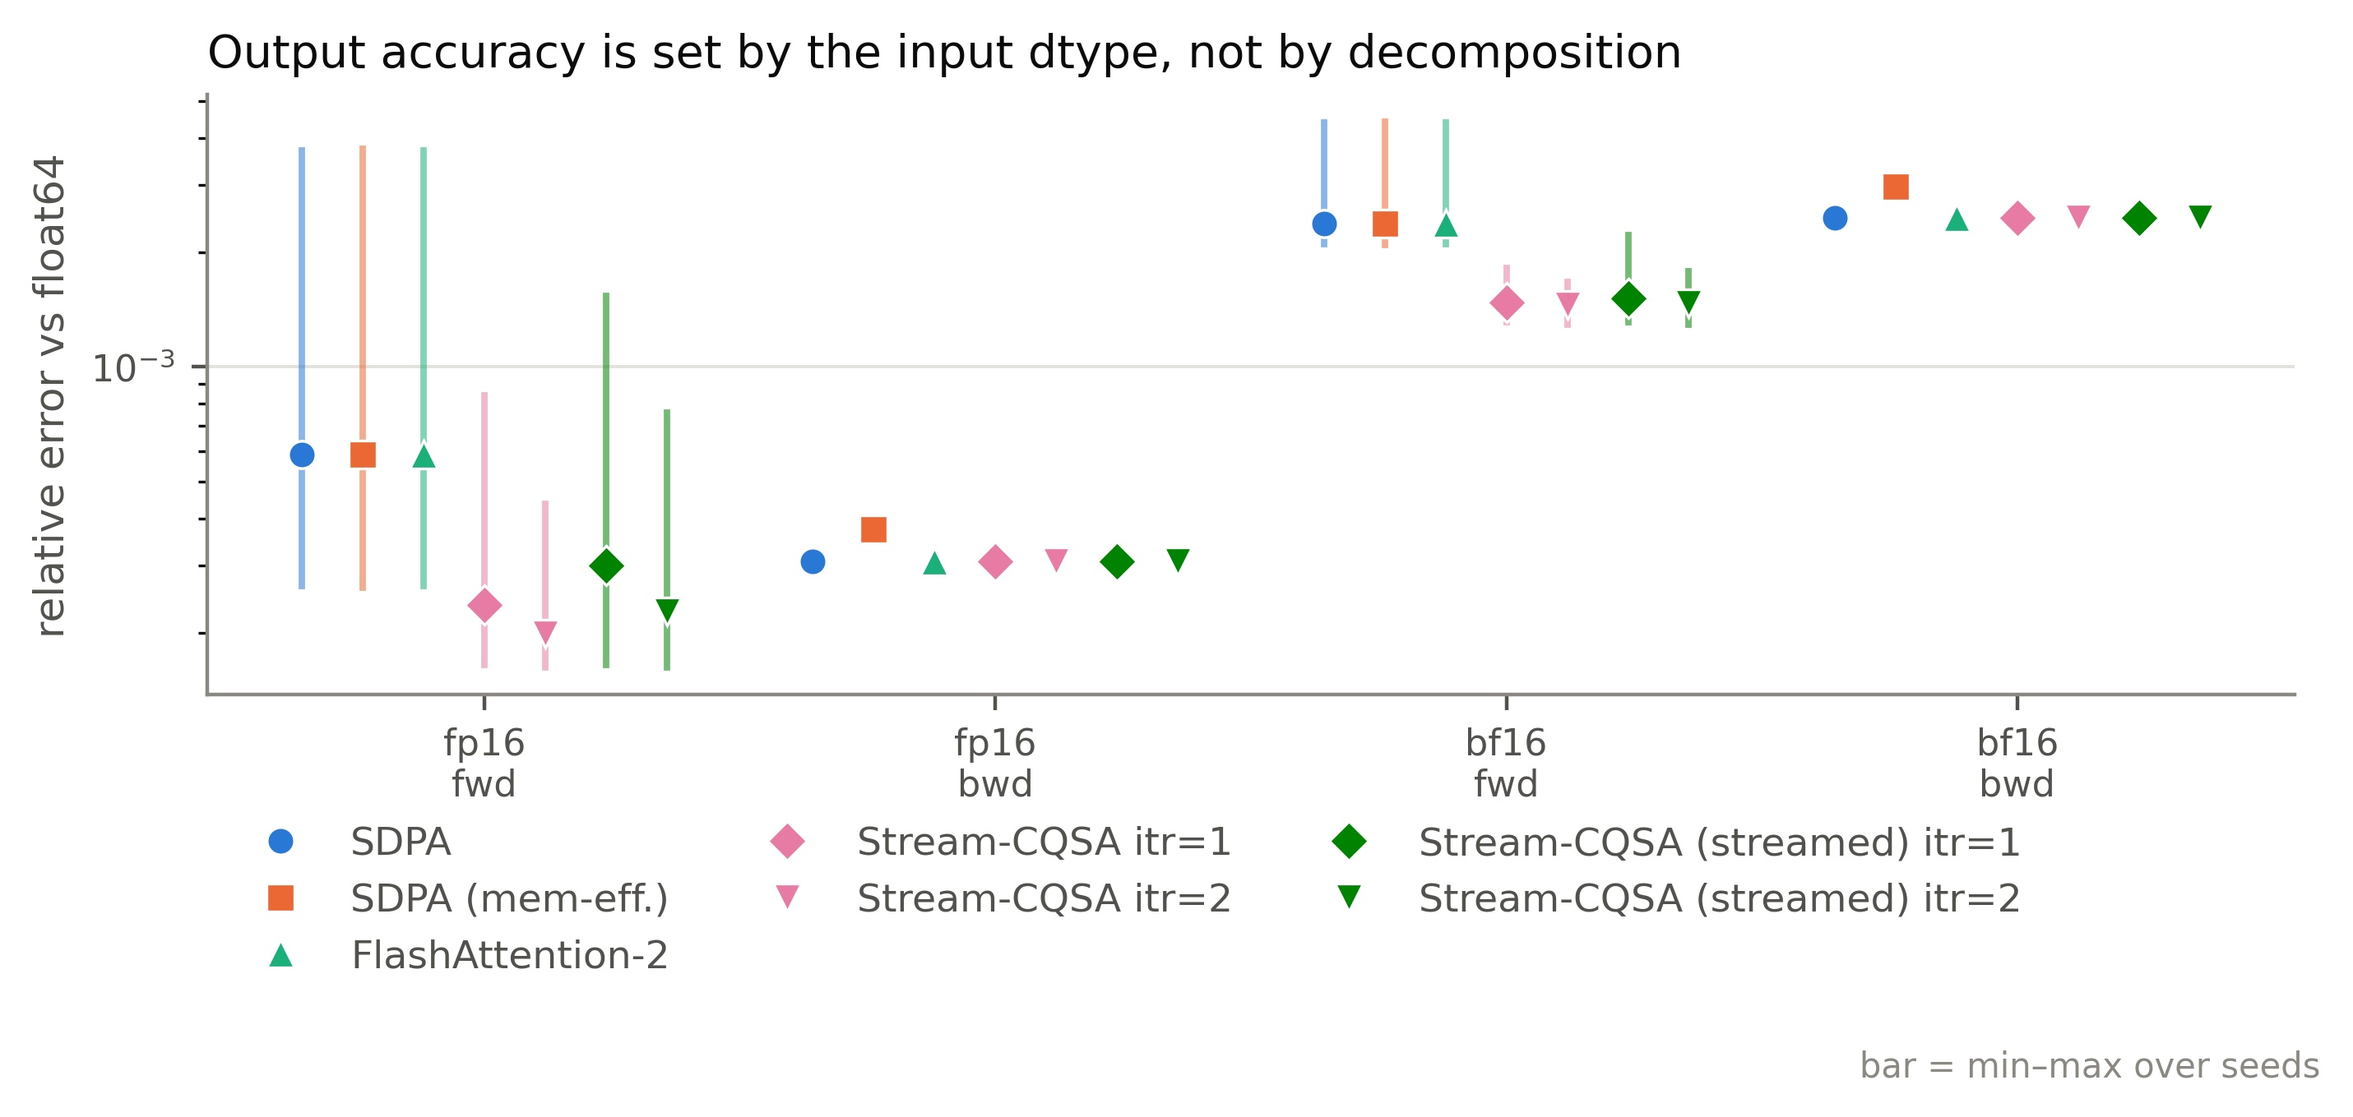
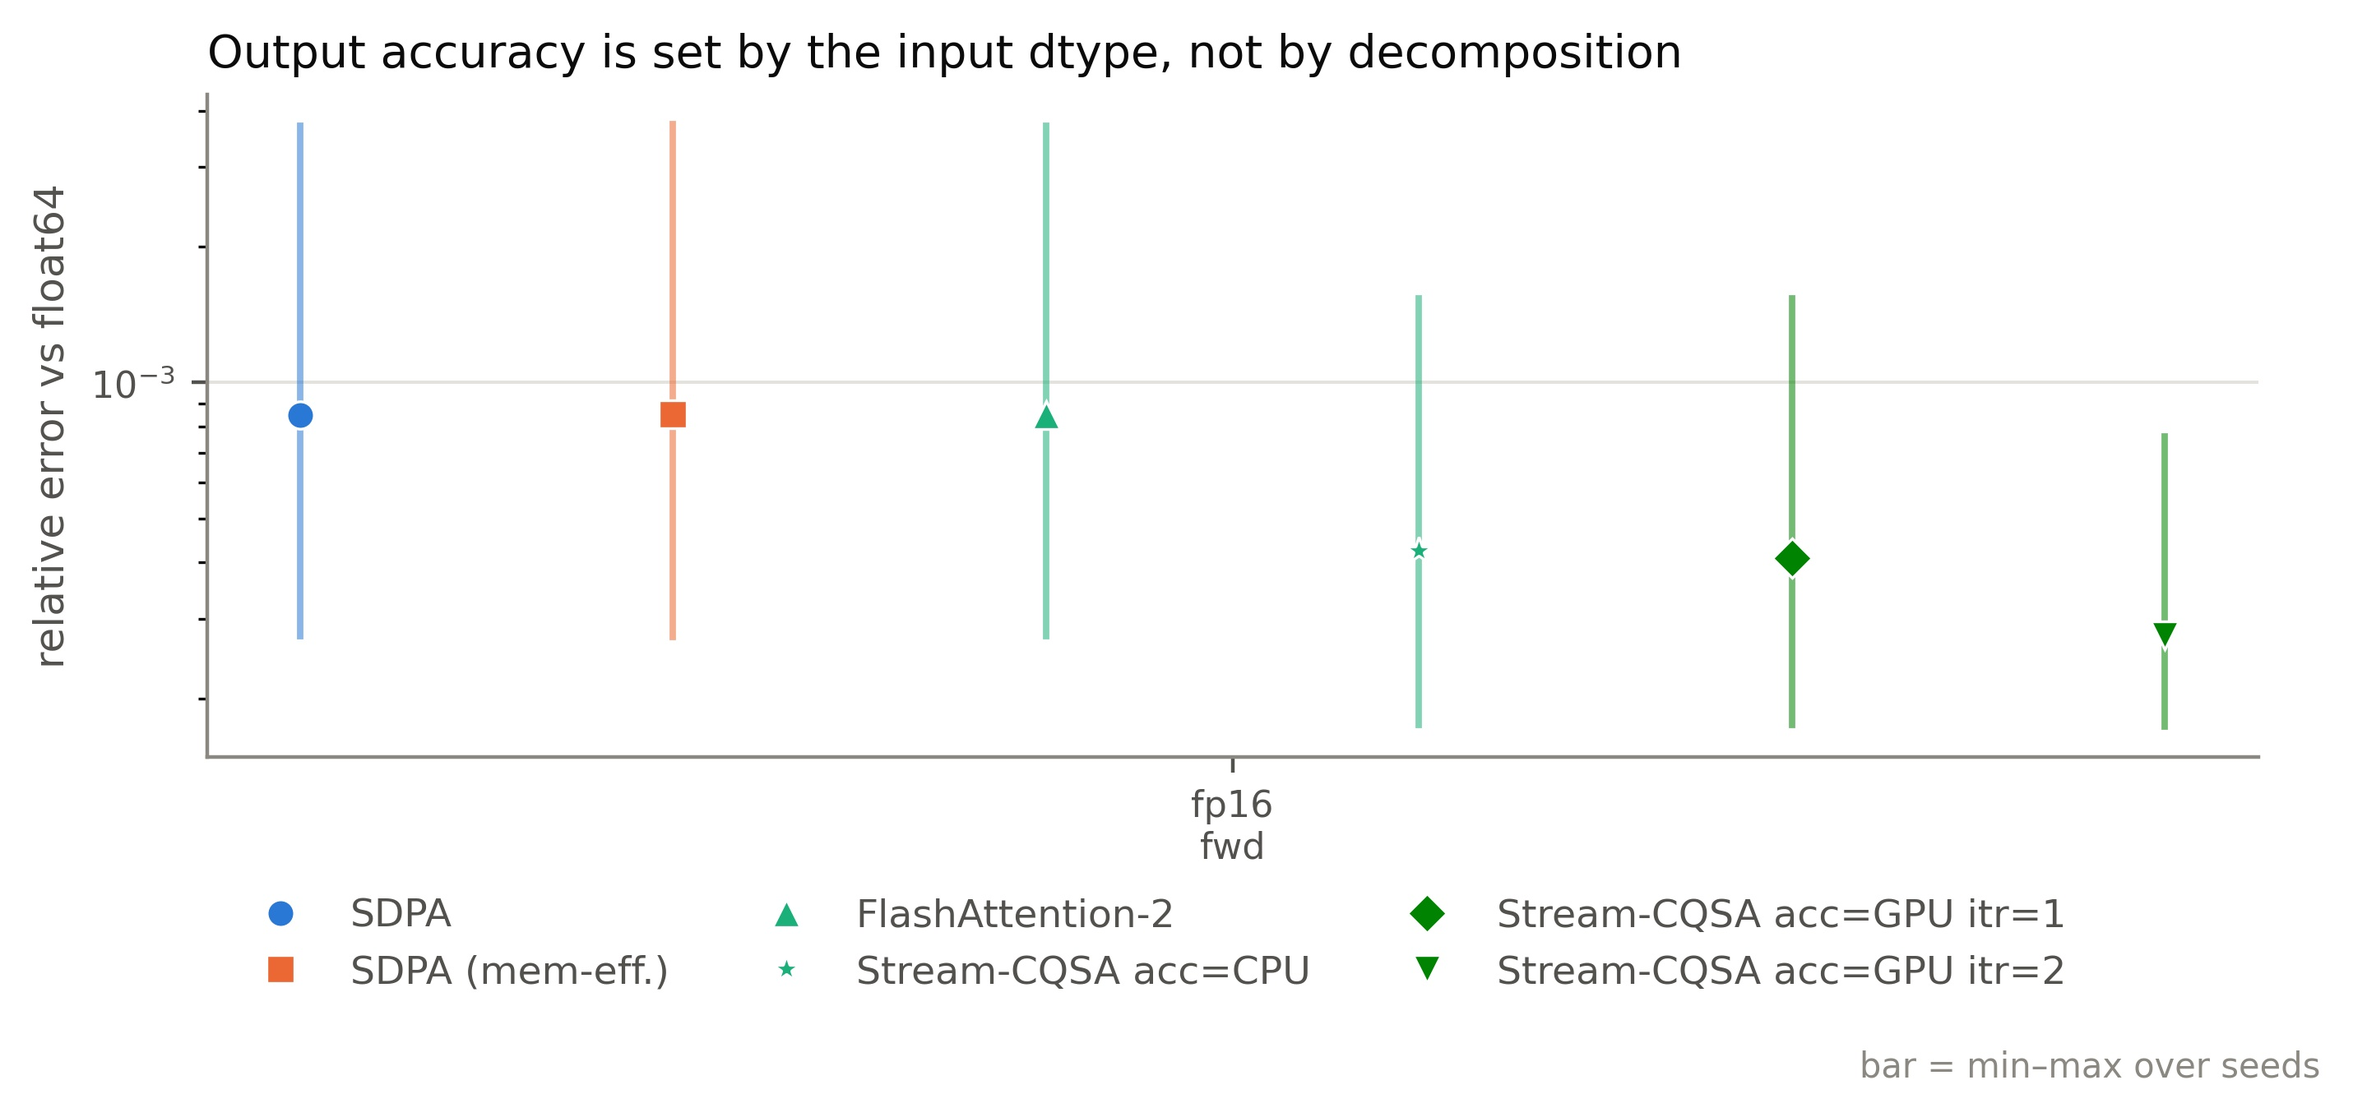
Results: the measured backward, forward first, figure regenerated
The backward acc=GPU columns are filled for the first time with a real device
accumulator, and the picture they give is the argument the method exists to make.
At 8M every baseline is out of memory and so is Stream-CQSA at both fixed depths
with dQ/dK/dV on the device; only the host-accumulating configuration finishes,
in 60.8 GiB, and it goes on to complete 16M in 48.5 GiB. Before this the acc=GPU
and acc=CPU backward columns were the same measurement printed twice, because the
streamed backward had no way to place its accumulators, so the wall was invisible.

Forward now precedes backward, which is the order the passes run in and the order
a reader expects.

Two claims are removed as false. The backward's O(N) buffers are no longer said to
be placed by stream_from_host with nothing to choose -- they have their own
parameter, and the trade is 1.79x device memory against 8% time, flat across N.
And the 16M backward win is no longer attributed to depth alone: acc=GPU cannot
reach 16M at any depth, because three fp32 [B,N,H,D] buffers are 12 bytes per
element of O(N) residency that decomposition does not touch, measured at 12.01
against a predicted 12.00.

The cost ratios are recomputed. The backward acc=GPU rows moved from 0.76x and
0.44x of FlashAttention-2 to 1.35x and 1.04x, the earlier figures having been
host-accumulated under a GPU label.

The figure is regenerated from a merged file holding exactly the rows the tables
[…]

diff --git a/stream_cqsa/stable_stream.py b/stream_cqsa/stable_stream.py
@@ -2050,7 +2050,13 @@ def stream_cqsa_backward(
                 if torch.cuda.is_available():
                     torch.cuda.synchronize(device)
                     torch.cuda.empty_cache()
-                if not allow_escalation or depth >= depth_cap:
+                if not allow_escalation:
+                    raise torch.cuda.OutOfMemoryError(
+                        f"Stream-CQSA streamed backward: itr={depth} does not fit "
+                        f"and escalation is disabled (allow_escalation=False), so "
+                        f"this depth genuinely does not fit."
+                    ) from exc
+                if depth >= depth_cap:
                     raise torch.cuda.OutOfMemoryError(
                         f"Stream-CQSA streamed backward: itr={depth_cap} is the "
                         f"deepest decomposition N={N} admits at c={c}, and the "

diff --git a/README.md b/README.md
@@ -56,18 +56,16 @@ fp32 accumulator off the device, which is why it is the last column standing at
 16M — finishing there in 32.0 GiB forward and 48.5 GiB backward while every
 baseline is out of memory.
 
-**One thing to be precise about, because the column name overstates it.**
-`accumulate_on_gpu` places the *forward's* fp32 softmax accumulator. The backward
-has no such accumulator, and its own O(N) buffers — `dQ`, `dK`, `dV` — are placed
-by `stream_from_host`, which every Stream-CQSA column here already sets. So
-"acc=CPU" describes what the forward did; in the backward this column and
-`itr=1` acc=GPU run the same code, and their backward figures agree to within
-run-to-run noise (7.6 against 7.6 at 1M, 60.8 against 61.1 at 8M).
+**What "acc" means in each direction.** In the forward it places the fp32 softmax
+accumulator; in the backward it places `dQ`, `dK` and `dV`. Different tensors, the
+same idea — an O(N) fp32 term that lives on the device or on the host — and the
+same trade in both directions: on the device it is faster and larger, on the host
+slower and smaller.
 
-The forward is where the accumulator placement pays: **20.7 GiB at 8M against
-FlashAttention-2's 40.3**, roughly half, and less than the `itr=2` acc=GPU column
-needs at the same `N`. In the backward the only lever is depth, which is why the
-16M backward win belongs to `itr=3` rather than to residency.
+The forward pays **2.50×** less device memory for the host placement, the backward
+**1.79×**, both flat across `N`. The backward's term is the larger one in absolute
+size, three buffers rather than one, which is why it is the direction where the
+placement decides whether 8M runs at all.
 
 One caveat on how that column is measured, because `auto` means two different
 things. In the package, `auto` starts at `itr=0` and the planner is free to
@@ -86,149 +84,107 @@ in-flight working set than the depth the planner might otherwise reach.
 In normal use you never pick a depth yourself — see
 [On choosing the depth](#on-choosing-the-depth).
 
-### Backward
-
-| N | SDPA | SDPA<br>mem-eff | FA-2 | CQSA itr1<br>acc=GPU | CQSA itr2<br>acc=GPU | CQSA auto<br>acc=CPU § |
-|:---:|:---:|:---:|:---:|:---:|:---:|:---:|
-| **1M** | 26<br>12.1 | 78<br>11.1 | 25<br>10.1 | *pending* | *pending* | 65<br>7.6 * |
-| **2M** | 106<br>24.1 | 3860<br>22.1 | 101<br>20.1 | *pending* | *pending* | 233<br>15.2 * |
-| **4M** | 429<br>48.3 | 15421<br>44.3 | 407<br>40.3 | *pending* | *pending* | 881<br>30.4 * |
-| **8M** | **OOM** | **OOM** | **OOM** | *pending* | *pending* | 3430<br>60.8 * |
-| **16M** | **OOM** ‡ | **OOM** ‡ | **OOM** ‡ | *pending* | *pending* | 18890<br>**48.5** |
-
-Each cell is **wall-clock seconds** (top) over **peak GiB** (bottom).
-`FA-2` is FlashAttention-2; `CQSA` is Stream-CQSA. A **\*** marks a cell pinned at
-`itr=1` where the planner would have chosen `itr=0` — see above.
-
-**Why both acc=GPU backward columns are pending.** Until recently the streamed
-backward kept `dQ`, `dK` and `dV` on the host unconditionally: the placement was
-implied by `stream_from_host` and no argument could ask for anything else. Every
-"acc=GPU" backward figure ever recorded was therefore accumulating on the host —
-the same configuration as the acc=CPU column, which is why the two agreed to
-within run-to-run noise at every `N` rather than trading against each other. The
-backward now takes `accumulate_on_gpu` like the forward does, and the column is
-being re-measured. The retired rows are kept in
-`outputs/paper/staled_results/bwd_accgpu_host_accumulated/`.
-
-The forward columns are unaffected: the forward's accumulator placement always
-worked, and its acc=GPU figures mean what they say.
-
-§ **The acc=CPU backward figures are awaiting a depth check.** The backward
-returned only gradients, so it never recorded whether it had refined a subproblem
-to a deeper level than the column claims — a row's escalation counters came from
-the *forward*, and an audit reading them could not have seen it. These figures
-are consistent with no refinement: peak device memory per subproblem holds at a
-constant 2.52× of the scheduler's own estimate across the whole range, and a
-deepened schedule would break that. But it is indirect, and the acc=GPU column is
-pending precisely because one of its cells does break the pattern. A pass that
-pins the depth and records the backward's own counters is in flight.
-
-‡ **The 16M backward baselines are entailed, not separately measured.** All
-three are measured OOM at 8M, and their residency is linear in `N`, so 16M
-cannot fit either. The 16M *forward* OOMs in the table are measured directly.
-
-**On the `itr=2` acc=GPU cell at 16M.** It was long missing because the sweep
-retired a method from all larger `N` once it OOMed but keyed that on the base
-method name rather than on `(method, itr)`, so `itr=1` failing at 16M marked the
-whole family dead. That harness bug is fixed. When the cell was first run it
-measured 70.9 GiB against a linear projection of ~71 GiB from the 8M figure —
-the residency model predicting it to within 0.1 GiB. That run accumulated on the
-host, so the figure is retired along with the rest of the column, but the
-agreement is worth recording: it is the O(N) residency model being tested against
-a number nobody had seen.
-
-**This is where the method pays off.** At 8M every baseline is out of memory and
-Stream-CQSA finishes, on the same card with the same numerics. And it is not only
-a fallback: at 4M it does the backward in 30.4 GiB against FlashAttention-2's
-40.3 GiB — **0.76×** the peak memory — for **2.2×** the time, because
-decomposition shrinks the in-flight working set while the inputs stream from host
-memory. The sharper ratio a deeper fixed depth gives is what the pending acc=GPU
-columns will show.
-
-At 16M the separation is complete: every baseline is out of memory and the
-acc=CPU column finishes the backward in **48.5 GiB**, well inside an 80 GiB card.
-Whether a device-resident accumulator can reach 16M at all is the open question
-the pending columns answer. The arithmetic is not encouraging for it: three fp32
-`[B, N, H, D]` buffers are 12 bytes per element, 96 GiB at this `N`, and that term
-is O(N) — no depth of decomposition touches it. Keeping those buffers off the
-device is the only lever that does.
-
 ### Forward
 
 | N | SDPA | SDPA<br>mem-eff | FA-2 | CQSA itr1<br>acc=GPU | CQSA itr2<br>acc=GPU | CQSA auto<br>acc=CPU |
 |:---:|:---:|:---:|:---:|:---:|:---:|:---:|
 | **1M** | 8<br>5.0 | 15<br>5.0 | 8<br>5.0 | 14<br>6.5 | 15<br>4.2 | 21<br>**2.6** * |
-| **2M** | 32<br>10.1 | 61<br>10.0 | 32<br>10.1 | 53<br>13.0 | 64<br>8.3 | 66<br>**5.2** * |
-| **4M** | 131<br>20.1 | 245<br>20.0 | 130<br>20.1 | 203<br>25.9 | 237<br>16.7 | 228<br>**10.4** * |
-| **8M** | 520<br>40.3 | 966<br>40.0 | 532<br>40.3 | 796<br>51.8 | 907<br>33.3 | 846<br>**20.7** * |
-| **16M** | **OOM** | **OOM** | **OOM** | **OOM** | 3570<br>66.6 | 6228<br>**32.0** |
+| **2M** | 32<br>10.1 | 61<br>10.0 | 32<br>10.1 | 52<br>13.0 | 65<br>8.3 | 66<br>**5.2** * |
+| **4M** | 131<br>20.1 | 245<br>20.0 | 130<br>20.1 | 203<br>25.9 | 240<br>16.7 | 228<br>**10.4** * |
+| **8M** | 520<br>40.2 | 966<br>40.0 | 532<br>40.3 | 802<br>51.8 | 914<br>33.3 | 846<br>**20.7** * |
+| **16M** | **OOM** | **OOM** | **OOM** | **OOM** | 3544<br>66.6 | 6228<br>**32.0** |
 
-Same units: **seconds** over **peak GiB**; **\*** as above. The fixed-depth
-Stream-CQSA forward figures come from a single run with the depth pinned, so each
-reports the depth it names: every one recorded zero escalations.
+Each cell is **wall-clock seconds** (top) over **peak GiB** (bottom).
+`FA-2` is FlashAttention-2; `CQSA` is Stream-CQSA. A **\*** marks a cell pinned at
+`itr=1` where the planner would have chosen `itr=0` — see above.
 
-The one exception is the **16M acc=CPU** cell, which predates that counter and so
-carries no record of whether the scheduler deepened itself while running. For an
-`auto` column that is not a mislabel — `auto` is defined as whatever depth the
-scheduler picks, and 32.0 GiB is what it achieved — but the `itr=3` it reports is
-the planner's choice going in, which may understate the depth actually executed.
+**Below 16M, Stream-CQSA buys headroom rather than reach**: every method here
+succeeds, and acc=CPU does it in **0.52×** FlashAttention-2's memory, flat to two
+decimals from 512K up, for 1.6–2.7× the time. At `itr=1` with the accumulator on
+the device it uses *more* memory than the baselines, because that accumulator is
+an extra O(N) device term one level of decomposition does not pay for.
 
-**The forward is a narrower win, and worth stating plainly.** Up to 8M every
-method here succeeds, so what Stream-CQSA buys over that range is headroom rather
-than reach: 33.3 GiB against FlashAttention-2's 40.3 GiB at 8M (**0.83×**), for
-**1.5–2.0×** the time. At `itr=1` it uses *more* memory than the baselines
-(1.29×), because the fp32 accumulator is an extra O(N) device term that a single
-level of decomposition does not pay for.
-
-The boundary moves at 16M, where every baseline fails and Stream-CQSA does not.
-The acc=CPU column finishes the 16M forward in **32.0 GiB** — less than
-FlashAttention-2 needs at 8M, for twice the sequence — which is the point of
-keeping both O(N) terms off the device rather than only shrinking the third.
-
-The reason is structural: the forward's peak is dominated by the inputs and the
-accumulator, both O(N) on the device, and neither shrinks with depth. Moving the
-accumulator to the host is what carries the forward past 16M, and the effect is
-visible well before the boundary — a flat **2.50×** less device memory than
-acc=GPU at the same depth, constant from 512K to 8M, for 6% more time at 8M.
+**At 16M the boundary moves.** Every baseline is out of memory and Stream-CQSA is
+not: acc=CPU finishes in **32.0 GiB**, less than FlashAttention-2 needs at 8M for
+half the sequence. That is what keeping both O(N) terms off the device buys, and
+the forward is the direction where the accumulator's placement is the whole
+story — a flat **2.50×** less device memory than acc=GPU at the same depth, for
+6% more time at 8M.
 
 ![memory and wall-clock across N](docs/figures/fig_mem_time_fp16.jpg)
+
+### Backward
+
+| N | SDPA | SDPA<br>mem-eff | FA-2 | CQSA itr1<br>acc=GPU | CQSA itr2<br>acc=GPU | CQSA auto<br>acc=CPU |
+|:---:|:---:|:---:|:---:|:---:|:---:|:---:|
+| **1M** | 26<br>12.1 | 78<br>11.1 | 25<br>10.1 | 56<br>13.6 | 66<br>10.4 | 66<br>**7.6** * |
+| **2M** | 106<br>24.1 | 3860<br>22.1 | 101<br>20.1 | 216<br>27.3 | 256<br>20.9 | 235<br>**15.2** * |
+| **4M** | 429<br>48.3 | 15421<br>44.3 | 407<br>40.3 | 847<br>54.5 | 983<br>41.7 | 885<br>**30.4** * |
+| **8M** | **OOM** | **OOM** | **OOM** | **OOM** | **OOM** | 3437<br>**60.8** * |
+| **16M** | *not run* ‡ | *not run* ‡ | *not run* ‡ | **OOM** | **OOM** | 18890<br>**48.5** |
+
+Same units and marks as above.
+
+**This is where the method pays off, and the 8M row is the whole argument.**
+Every baseline is out of memory there — and so is Stream-CQSA with the fp32
+gradient accumulators on the device, at *both* depths. Only acc=CPU finishes, in
+60.8 GiB, and it goes on to complete 16M in **48.5 GiB**.
+
+The reason is structural. The backward's `dQ`, `dK` and `dV` are three fp32
+`[B, N, H, D]` buffers, **12 bytes per element** of O(N) device residency that no
+depth of decomposition reduces — measured at 12.01 B/element against a predicted
+12.00. Deeper decomposition shrinks the in-flight working set, which is why
+`itr=2` sits below `itr=1` at every `N` that fits, but it cannot touch that floor.
+Moving the buffers to the host is the only lever that does, and it costs about 8%
+in time.
+
+Below the boundary the trade is the ordinary one: at 4M acc=CPU does the backward
+in 30.4 GiB against FlashAttention-2's 40.3 — **0.76×** — for **2.2×** the time.
+
+One incidental finding worth flagging: PyTorch's **memory-efficient SDPA backend
+is a severe outlier in the backward** — 15 421 s at 4M against FlashAttention-2's
+407 s, a factor of 38 — while using *more* memory than Stream-CQSA at `itr=2`. If
+you are reaching for that backend for long-context training, measure it.
+
+‡ **The 16M backward baselines were not run.** All three are measured OOM at 8M
+and their residency is linear in `N`, so 16M cannot fit either; the cell is left
+honest rather than filled by inference.
 
 ### What it costs
 
 Below the OOM boundary Stream-CQSA is **always slower** than the baselines it is
-meant to rescue, and at `itr=1` acc=GPU it also uses **more** forward memory than
-they do. That is the trade, and the repository does not hide it. The acc=CPU
-column is the exception on memory: it is under half of FlashAttention-2 in the
-forward at every `N`.
+meant to rescue, and with the fp32 accumulators on the device it uses **more**
+memory than them in both directions. That is the trade, and the repository does
+not hide it. Moving those accumulators to the host is what turns the memory
+column around.
 
-Ratios against FlashAttention-2, fp16 (min–max across N). The forward rows
-span N = 1M–8M; the backward rows span 1M–4M, because FlashAttention-2 is
-out of memory at 8M and there is nothing left to take a ratio against. The two
-acc=CPU rows span the same N as the fixed-depth row directly above them:
+Ratios against FlashAttention-2, fp16, min–max across `N`. Forward rows span
+1M–8M; backward rows span 1M–4M, because FlashAttention-2 is out of memory at 8M
+and there is nothing left to take a ratio against.
+
+<div align="center">
 
 | | | time | peak memory |
 |:---:|:---:|:---:|:---:|
-| forward | `itr=1` | 1.49–1.81× | 1.29× |
-| forward | `itr=2` | 1.70–1.99× | **0.83×** |
-| backward | `itr=1` | *pending* | *pending* |
-| backward | `itr=2` | *pending* | *pending* |
+| forward | `itr=1` acc=GPU | 1.51–1.80× | 1.29× |
+| forward | `itr=2` acc=GPU | 1.72–2.02× | 0.83× |
 | forward | `auto` acc=CPU | 1.59–2.68× | **0.52×** |
-| backward | `auto` acc=CPU | 2.16–2.57× | **0.76×** |
+| backward | `itr=1` acc=GPU | 2.08–2.22× | 1.35× |
+| backward | `itr=2` acc=GPU | 2.41–2.59× | 1.04× |
+| backward | `auto` acc=CPU | 2.17–2.61× | **0.76×** |
 
-The memory ratios are strikingly constant across N — to two decimal places in
-every row — because the decomposition shrinks the working set by a fixed factor
-set by the depth and the accumulator's placement, not by anything N-dependent.
-The time ratios are not constant, and improve with N: the fixed per-call cost of
-gathering and staging is amortised over more work as `N` grows, which is why
-acc=CPU is 2.68× FlashAttention-2 at 1M and 1.59× at 8M.
+</div>
 
-**Use FlashAttention-2 when it fits.** Reach for Stream-CQSA when it does not,
-or when you need the backward's memory headroom more than you need the 2×.
+**Every memory ratio is constant across `N` to two decimal places.** That is not
+a coincidence of the sizes chosen: the decomposition shrinks the working set by a
+factor fixed by the depth, and the accumulator's placement moves a term that is
+linear in `N`, so both effects are ratios rather than offsets. The time ratios are
+*not* constant and improve with `N` — acc=CPU is 2.68× FlashAttention-2 at 1M and
+1.59× at 8M — as the fixed per-call cost of gathering and staging is amortised
+over more work.
 
-One incidental finding worth flagging: PyTorch's **memory-efficient SDPA backend
-is a severe outlier in the backward** — 15 421 s at 4M against FlashAttention-2's
-407 s, a factor of 38 — while using *more* memory than Stream-CQSA `itr=2`. If
-you are reaching for that backend for long-context training, measure it.
+**Use FlashAttention-2 when it fits.** Reach for Stream-CQSA when it does not, or
+when the memory headroom is worth more to you than the 1.5–2.6×.
 
 ### Accuracy
 
